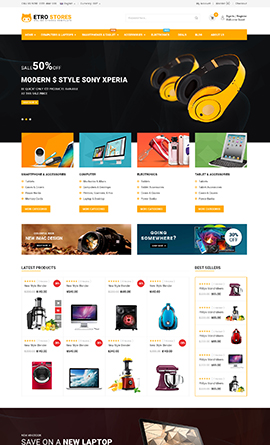
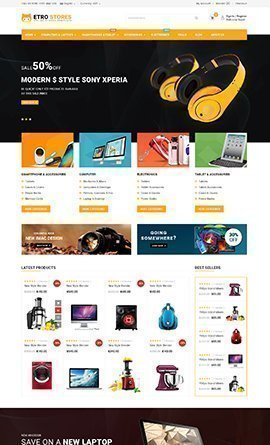
changes

diff --git a/catalog/view/javascript/nilson/nilson_custom_1.css b/catalog/view/javascript/nilson/nilson_custom_1.css
@@ -38,7 +38,8 @@ body{
     top: 0;
     background-color: transparent;
 }
-.owl2-carousel  img[src="image/no_image.png"]{
+
+.owl2-carousel  .yt-content-slide > img{
     display: none;
 }
 #header {
@@ -101,6 +102,12 @@ body{
 }
 #header .header-bottom .container-megamenu.horizontal ul.megamenu > li > a{
     color: white;
+}
+#header .btn-group:hover .dropdown-menu{
+    margin-top: 0 !important;
+    opacity: 1 !important;
+    filter: alpha(opacity=100) !important;
+    visibility: visible !important;
 }
 .search-header-w{
     display: none !important;
@@ -322,12 +329,53 @@ body{
     transform: translate3d(0px, 0px, 0px);
 }
 
+header.typeheader-10 .megamenu-style-dev .navbar-default .horizontal .navbar-header .navbar-toggle .icon-bar{
+    background-color: white;
+}
 
 @media all and (max-width: 1199px){
     header.typeheader-10 .container-megamenu.horizontal ul.megamenu > li{
         margin: 0 !important;
     }
+    header.typeheader-10  .header-bottom  .navbar-logo{
+        margin: 0 auto;
+        float: initial;
+    }
+    .footer-container  .desc-collapse.showdown::before{
+        background: linear-gradient(rgba(255, 255, 255, 0) 0, rgb(37, 37, 37) 100%, #252525);
+    }
 }
+@media all and (max-width: 768px){
+    #header .header-bottom .bottom-center{
+        position: absolute;
+        left: 0;
+        float: initial;
+        width: auto;
+        top: 15px;
+    }
+    header.typeheader-10 .container-megamenu.horizontal ul.megamenu > li{
+        border: none !important;
+        margin: 10px 0 !important;
+    }
+    
+    
+}
+
+
+/*=============SIDEBAR================*/
+
+@media all and (max-width: 768px){
+    .megamenu-pattern{
+        width: 100%;
+    }
+    .megamenu-style-dev .navbar-default .horizontal .megamenu-wrapper{
+        max-height: 100vh;
+        background: #252525 !important;
+        width: 70%;
+    }
+}
+
+/*=============/SIDEBAR================*/
 
 
 /*=============HOME BLOG================*/

diff --git a/catalog/view/javascript/nilson/nilson_custom_category.css b/catalog/view/javascript/nilson/nilson_custom_category.css
@@ -8,7 +8,7 @@ and open the template in the editor.
     Author     : Ayder Adjivapov
 */
 ul.breadcrumb{
-    margin: 20px 0;
+    margin: 20px 0 !important;
 }
 .content-product-mainheader .row{
     position: relative;
@@ -98,4 +98,21 @@ ul.breadcrumb{
     box-shadow: 1px 3px 15px -3px #00000036;
     margin: 0px !important;
     padding: 0px !important;
+}
+
+@media all and (max-width: 768px){
+    .product-listing-header  .parallax-layer{
+        position: relative;
+    }
+    .category-info .row{
+        top: 0;
+    }
+    .img-cate img{
+        left: 0;
+    }
+    .typeheader-10 .bottom-right{
+        position: absolute;
+        right: 30px;
+        top: 15px;
+    }
 }

diff --git a/catalog/language/ru-ru/extension/module/distributors_map.php b/catalog/language/ru-ru/extension/module/distributors_map.php
@@ -1,7 +1,9 @@
 <?php
 // Heading
-$_['heading_title'] = 'Distributors';
+$_['heading_title'] = 'Дистрибьюторы';
 
 // Text
-$_['map_header_world']      = 'Our distributors around the world.';
-$_['map_header_tr']      = 'Our distributors in Turkey.';
+$_['map_header_world']      = 'Наши дистрибьюторы в мире';
+$_['map_header_tr']      = 'Наши дистрибьюторы в Турции';
+$_['world_text']       = 'Мир';
+$_['turkey_text']       = 'Турция';

diff --git a/catalog/language/tr-tr/extension/module/distributors_map.php b/catalog/language/tr-tr/extension/module/distributors_map.php
@@ -1,7 +1,9 @@
 <?php
 // Heading
-$_['heading_title'] = 'Distributors';
+$_['heading_title'] = 'Bayiler';
 
 // Text
-$_['map_header_world']      = 'Our distributors around the world.';
-$_['map_header_tr']      = 'Our distributors in Turkey.';
+$_['map_header_world']      = 'Bailerimiz dünyada';
+$_['map_header_tr']      = 'Bayilerimiz Türkiye\'de';
+$_['world_text']       = 'Dünya';
+$_['turkey_text']       = 'Türkiye';

diff --git a/catalog/language/en-gb/extension/module/distributors_map.php b/catalog/language/en-gb/extension/module/distributors_map.php
@@ -3,5 +3,7 @@
 $_['heading_title'] = 'Distributors';
 
 // Text
-$_['map_header_world']      = 'Our distributors around the world.';
-$_['map_header_tr']      = 'Our distributors in Turkey.';
+$_['map_header_world']      = 'Our distributors around the world';
+$_['map_header_tr']      = 'Our distributors in Turkey';
+$_['world_text']       = 'World';
+$_['turkey_text']       = 'Turkey';
